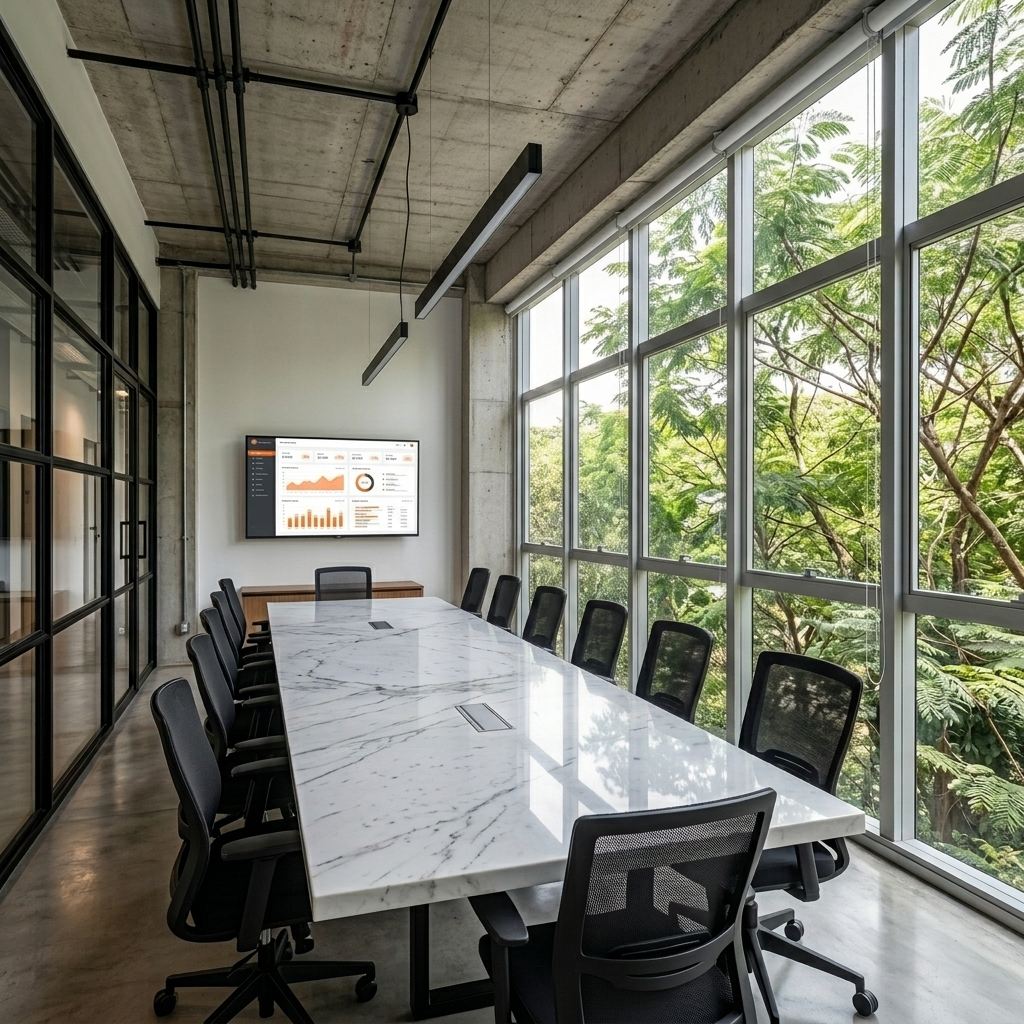
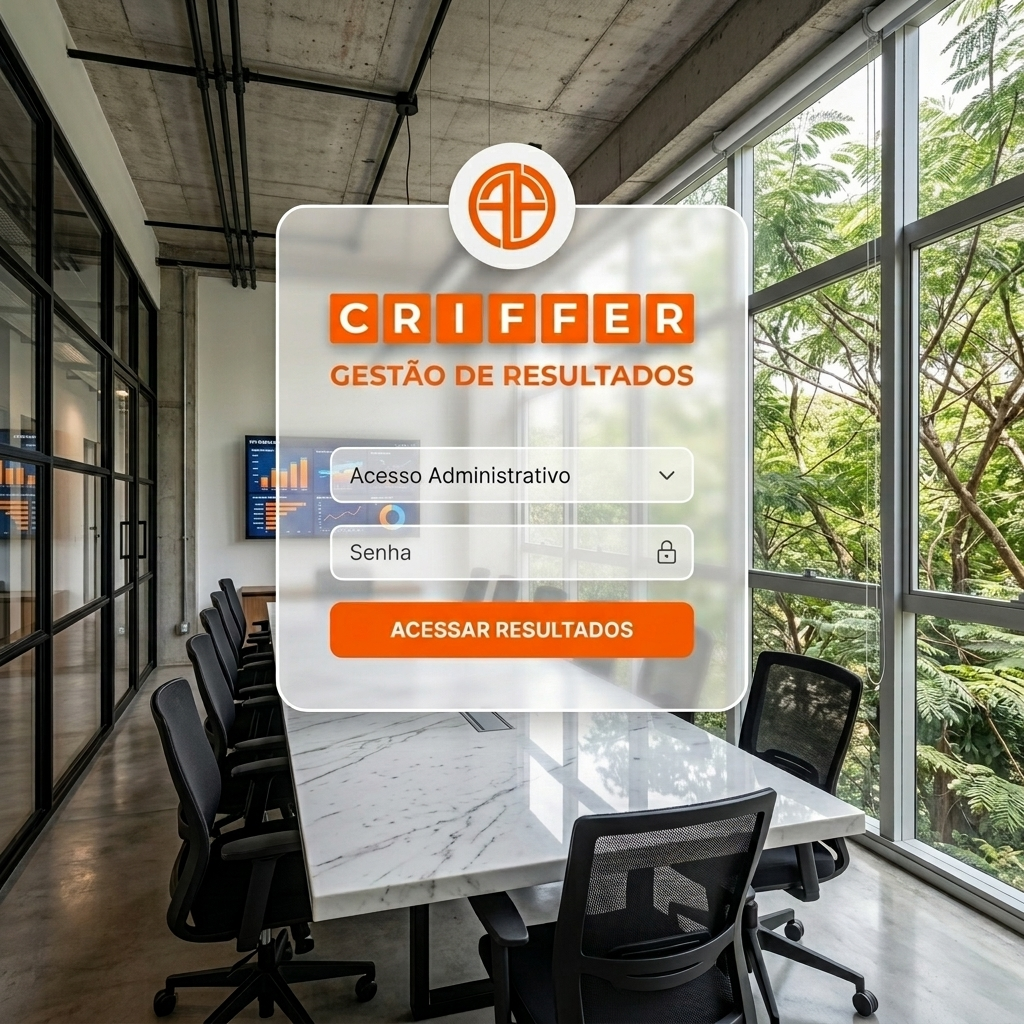
login: bg imagem 35 + fundo claro + card dark-glass visivel

Changed region(s): [[0.2188, 0.125, 0.75, 0.7188], [0.0, 0.4062, 0.0312, 0.5312]]

diff --git a/app/login/page.jsx b/app/login/page.jsx
@@ -52,12 +52,12 @@ export default function LoginPage() {
       minHeight: '100vh',
       width: '100%',
       overflow: 'hidden',
-      background: '#0a0a0a',
+      background: '#111',
       fontFamily: 'Syne, system-ui, sans-serif',
     }}>
 
-      {/* ── KEYFRAMES E ESTILOS ── */}
       <style>{`
+        /* ── Animações de entrada ── */
         @keyframes slideFromLeft {
           from { opacity: 0; transform: translateX(-160px); }
           to   { opacity: 1; transform: translateX(0); }
@@ -74,38 +74,25 @@ export default function LoginPage() {
           from { opacity: 0; transform: translateY(8px); }
           to   { opacity: 1; transform: translateY(0); }
         }
-        @keyframes logoGlow {
-          0%, 100% { box-shadow: 0 0 20px rgba(255,106,34,0.5), 0 0 60px rgba(255,106,34,0.2); }
-          50%       { box-shadow: 0 0 32px rgba(255,106,34,0.8), 0 0 90px rgba(255,106,34,0.35); }
-        }
-        @keyframes crifferGlow {
-          0%, 100% { box-shadow: 0 4px 15px rgba(255,106,34,0.5); }
-          50%       { box-shadow: 0 4px 28px rgba(255,106,34,0.9); }
-        }
 
-        /* Campos — foco laranja brilhante */
+        /* ── Interações ── */
         .cf-input:focus {
           border-color: #FF6A22 !important;
           outline: none;
-          box-shadow: 0 0 0 3px rgba(255,106,34,0.35), 0 0 16px rgba(255,106,34,0.2) !important;
-          background: rgba(255,255,255,0.18) !important;
+          box-shadow: 0 0 0 3px rgba(255,106,34,0.30) !important;
         }
-        /* Placeholder visível */
-        .cf-input::placeholder { color: rgba(255,255,255,0.45); }
+        .cf-input::placeholder { color: rgba(255,255,255,0.40); }
+        .cf-select option { background: #1e1e1e; color: #fff; }
 
-        /* Botão hover */
-        .cf-btn:hover  {
-          background: linear-gradient(135deg,#ff8c42,#e05a18) !important;
+        .cf-btn:hover {
+          background: #e05a18 !important;
           transform: translateY(-2px);
-          box-shadow: 0 12px 36px rgba(255,106,34,0.7) !important;
+          box-shadow: 0 14px 38px rgba(255,106,34,0.65) !important;
         }
         .cf-btn:active { transform: scale(0.97) !important; }
-
-        /* Select — opções legíveis no dropdown nativo */
-        .cf-select option { background: #1a1a1a; color: #fff; }
       `}</style>
 
-      {/* ── 1. FUNDO FIXO ── */}
+      {/* ── FUNDO — mais claro, imagem bem visível ── */}
       <div style={{ position: 'absolute', inset: 0 }}>
         <Image
           src="/bg-login.png"
@@ -113,43 +100,47 @@ export default function LoginPage() {
           fill
           className="object-cover"
           priority
-          style={{ filter: 'brightness(0.72) contrast(1.08) saturate(0.9)' }}
+          style={{
+            /* ▼ brightness alto para fundo claro e nítido */
+            filter: 'brightness(0.88) contrast(1.05) saturate(0.95)',
+          }}
         />
-        {/* Vinheta lateral suave para direcionar o olhar ao card */}
+        {/* Overlay levíssimo apenas nas bordas */}
         <div style={{
           position: 'absolute', inset: 0,
-          background: 'radial-gradient(ellipse 60% 80% at 38% 50%, rgba(0,0,0,0.1) 0%, rgba(0,0,0,0.55) 100%)',
+          background: 'linear-gradient(to right, rgba(0,0,0,0.28) 0%, rgba(0,0,0,0.05) 50%, rgba(0,0,0,0.18) 100%)',
         }} />
       </div>
 
-      {/* ── CENTRALIZAÇÃO ── */}
+      {/* ── CARD ── */}
       <div style={{
         position: 'absolute', inset: 0,
         display: 'flex', alignItems: 'center', justifyContent: 'center',
         padding: 24, zIndex: 10,
       }}>
-
-        {/* ── 2. CARD — vidro ultrafino, quase invisível ── */}
+        {/*
+          Dark-glass: fundo escuro 30% para a imagem aparecer por trás,
+          blur moderado preserva a cena sem borrar demais.
+        */}
         <div style={{
           width: '100%',
           maxWidth: 460,
-          /* ▼ TRANSPARÊNCIA MÁXIMA — só 5% de branco */
-          background: 'rgba(255,255,255,0.05)',
-          backdropFilter: 'blur(64px)',
-          WebkitBackdropFilter: 'blur(64px)',
-          borderRadius: 28,
+          background: 'rgba(10, 10, 10, 0.42)',
+          backdropFilter: 'blur(22px)',
+          WebkitBackdropFilter: 'blur(22px)',
+          borderRadius: 26,
           padding: '52px 44px 48px',
-          /* borda superior iluminada + sombra profunda */
           boxShadow: `
-            inset 0 1px 0 rgba(255,255,255,0.30),
-            inset 0 0 0 1px rgba(255,255,255,0.10),
-            0 40px 100px rgba(0,0,0,0.55),
-            0 0 80px rgba(255,106,34,0.08)
+            inset 0 1px 0 rgba(255,255,255,0.18),
+            inset 0 -1px 0 rgba(255,255,255,0.06),
+            inset 1px 0 0 rgba(255,255,255,0.08),
+            0 32px 80px rgba(0,0,0,0.50)
           `,
+          border: '1px solid rgba(255,255,255,0.12)',
           animation: 'slideFromLeft 1s cubic-bezier(0.22,1,0.36,1) both',
         }}>
 
-          {/* ── 3. LOGO — cai do topo, glow pulsante ── */}
+          {/* ── LOGO — cai do topo em 3s ── */}
           <div style={{
             display: 'flex', justifyContent: 'center', marginBottom: 22,
             animation: 'dropFromTop 3s cubic-bezier(0.22,1,0.36,1) both',
@@ -159,9 +150,8 @@ export default function LoginPage() {
               background: '#fff',
               borderRadius: '50%',
               display: 'flex', alignItems: 'center', justifyContent: 'center',
-              border: '3px solid rgba(255,106,34,0.6)',
+              boxShadow: '0 0 0 4px rgba(255,106,34,0.50), 0 8px 32px rgba(0,0,0,0.45)',
               position: 'relative', overflow: 'hidden',
-              animation: 'logoGlow 3s ease-in-out infinite',
             }}>
               <Image
                 src="/logo-base.png"
@@ -172,7 +162,7 @@ export default function LoginPage() {
             </div>
           </div>
 
-          {/* ── 4. C-R-I-F-F-E-R — sobe de baixo, glow forte ── */}
+          {/* ── C-R-I-F-F-E-R — sobe de baixo em 3s ── */}
           <div style={{
             display: 'flex', justifyContent: 'center', gap: 5, marginBottom: 12,
             animation: 'riseFromBottom 3s cubic-bezier(0.22,1,0.36,1) both',
@@ -180,29 +170,29 @@ export default function LoginPage() {
             {['C','R','I','F','F','E','R'].map((ch, i) => (
               <div key={i} style={{
                 width: 42, height: 42,
-                background: 'linear-gradient(145deg, #FF7A35, #E05500)',
+                background: '#FF6A22',
                 color: '#fff',
                 fontWeight: 900,
                 fontSize: 22,
                 display: 'flex', alignItems: 'center', justifyContent: 'center',
                 borderRadius: 8,
-                animation: `crifferGlow 2.5s ease-in-out ${i * 0.1}s infinite`,
-                textShadow: '0 1px 4px rgba(0,0,0,0.4)',
+                boxShadow: '0 4px 18px rgba(255,106,34,0.60)',
+                textShadow: '0 1px 3px rgba(0,0,0,0.35)',
               }}>{ch}</div>
             ))}
           </div>
 
-          {/* ── 5. RESTANTE — aparece após 3s ── */}
+          {/* ── RESTANTE — aparece após 3s ── */}
           <div style={{ animation: 'fadeInDelayed 0.8s ease-out 3s both' }}>
 
             {/* Subtítulo */}
             <p style={{
               textAlign: 'center',
-              fontSize: 16, fontWeight: 600,
-              color: '#fff',
-              letterSpacing: '0.18em',
+              fontSize: 15, fontWeight: 600,
+              color: 'rgba(255,255,255,0.90)',
+              letterSpacing: '0.20em',
               textTransform: 'uppercase',
-              textShadow: '0 0 20px rgba(255,106,34,0.8), 0 2px 8px rgba(0,0,0,0.5)',
+              textShadow: '0 1px 8px rgba(0,0,0,0.6)',
               marginBottom: 32, marginTop: 4,
             }}>
               Gestão de Resultados
@@ -211,13 +201,11 @@ export default function LoginPage() {
             <form onSubmit={handleLogin}>
 
               {/* Acesso Administrativo */}
-              <div style={{ marginBottom: 18 }}>
+              <div style={{ marginBottom: 16 }}>
                 <label style={{
                   display: 'block', fontSize: 10, fontWeight: 800,
-                  color: '#fff',
-                  textTransform: 'uppercase', letterSpacing: '0.16em',
-                  marginBottom: 7,
-                  textShadow: '0 0 10px rgba(255,255,255,0.4)',
+                  color: 'rgba(255,255,255,0.80)',
+                  textTransform: 'uppercase', letterSpacing: '0.16em', marginBottom: 7,
                 }}>
                   Acesso Administrativo
                 </label>
@@ -227,38 +215,35 @@ export default function LoginPage() {
                     onChange={e => setSelectedUser(USUARIOS.find(u => u.nome === e.target.value) || null)}
                     className="cf-input cf-select"
                     style={{
-                      width: '100%', padding: '13px 40px 13px 16px',
+                      width: '100%', padding: '12px 38px 12px 14px',
                       background: 'rgba(255,255,255,0.10)',
-                      border: '1.5px solid rgba(255,255,255,0.35)',
-                      borderRadius: 12, fontSize: 14,
-                      color: '#fff',
+                      border: '1.5px solid rgba(255,255,255,0.28)',
+                      borderRadius: 11, fontSize: 14, color: '#fff',
                       fontFamily: 'inherit', cursor: 'pointer',
                       boxSizing: 'border-box', transition: 'all 0.2s',
                       appearance: 'none',
                     }}
                     required
                   >
-                    <option value="" style={{ background: '#1a1a1a', color: '#fff' }}>Selecione seu nome</option>
+                    <option value="" style={{ background: '#1e1e1e', color: '#fff' }}>Selecione seu nome</option>
                     {USUARIOS.map(u => (
-                      <option key={u.nome} value={u.nome} style={{ background: '#1a1a1a', color: '#fff' }}>{u.display}</option>
+                      <option key={u.nome} value={u.nome} style={{ background: '#1e1e1e', color: '#fff' }}>{u.display}</option>
                     ))}
                   </select>
                   <div style={{
-                    position: 'absolute', right: 14, top: '50%',
+                    position: 'absolute', right: 13, top: '50%',
                     transform: 'translateY(-50%)',
-                    pointerEvents: 'none', color: 'rgba(255,255,255,0.7)', fontSize: 11,
+                    pointerEvents: 'none', color: 'rgba(255,255,255,0.60)', fontSize: 11,
                   }}>▼</div>
                 </div>
               </div>
 
               {/* Senha */}
-              <div style={{ marginBottom: 24 }}>
+              <div style={{ marginBottom: 22 }}>
                 <label style={{
                   display: 'block', fontSize: 10, fontWeight: 800,
-                  color: '#fff',
-                  textTransform: 'uppercase', letterSpacing: '0.16em',
-                  marginBottom: 7,
-                  textShadow: '0 0 10px rgba(255,255,255,0.4)',
+                  color: 'rgba(255,255,255,0.80)',
+                  textTransform: 'uppercase', letterSpacing: '0.16em', marginBottom: 7,
                 }}>
                   Senha
                 </label>
@@ -270,20 +255,19 @@ export default function LoginPage() {
                     placeholder="••••••••••••"
                     className="cf-input"
                     style={{
-                      width: '100%', padding: '13px 44px 13px 16px',
+                      width: '100%', padding: '12px 44px 12px 14px',
                       background: 'rgba(255,255,255,0.10)',
-                      border: '1.5px solid rgba(255,255,255,0.35)',
-                      borderRadius: 12, fontSize: 14,
-                      color: '#fff',
+                      border: '1.5px solid rgba(255,255,255,0.28)',
+                      borderRadius: 11, fontSize: 14, color: '#fff',
                       fontFamily: 'inherit', boxSizing: 'border-box',
                       transition: 'all 0.2s',
                     }}
                     required
                   />
                   <div style={{
-                    position: 'absolute', right: 14, top: '50%',
+                    position: 'absolute', right: 13, top: '50%',
                     transform: 'translateY(-50%)',
-                    color: 'rgba(255,255,255,0.55)', fontSize: 16,
+                    color: 'rgba(255,255,255,0.50)', fontSize: 16,
                   }}>🔒</div>
                 </div>
               </div>
@@ -291,12 +275,10 @@ export default function LoginPage() {
               {/* Erro */}
               {error && (
                 <div style={{
-                  background: 'rgba(220,38,38,0.2)',
-                  color: '#FCA5A5', fontSize: 12,
-                  padding: '10px 14px', borderRadius: 10,
-                  border: '1px solid rgba(220,38,38,0.5)',
+                  background: 'rgba(220,38,38,0.25)', color: '#FCA5A5',
+                  fontSize: 12, padding: '10px 14px', borderRadius: 10,
+                  border: '1px solid rgba(220,38,38,0.45)',
                   marginBottom: 16, textAlign: 'center', fontWeight: 700,
-                  backdropFilter: 'blur(8px)',
                 }}>
                   {error}
                 </div>
@@ -308,18 +290,15 @@ export default function LoginPage() {
                 disabled={loading}
                 className="cf-btn"
                 style={{
-                  width: '100%', padding: '15px',
-                  background: loading
-                    ? 'rgba(255,184,153,0.4)'
-                    : 'linear-gradient(135deg, #FF7A35, #E05500)',
+                  width: '100%', padding: '14px',
+                  background: loading ? 'rgba(255,184,153,0.35)' : '#FF6A22',
                   color: '#fff', border: 'none', borderRadius: 12,
-                  fontWeight: 900, fontSize: 14, letterSpacing: '0.10em',
+                  fontWeight: 900, fontSize: 14, letterSpacing: '0.09em',
                   textTransform: 'uppercase',
                   cursor: loading ? 'default' : 'pointer',
                   fontFamily: 'inherit',
-                  boxShadow: loading ? 'none' : '0 8px 30px rgba(255,106,34,0.55)',
+                  boxShadow: loading ? 'none' : '0 8px 28px rgba(255,106,34,0.55)',
                   transition: 'all 0.25s',
-                  textShadow: '0 1px 4px rgba(0,0,0,0.3)',
                 }}
               >
                 {loading ? 'Autenticando...' : 'Acessar Resultados'}
